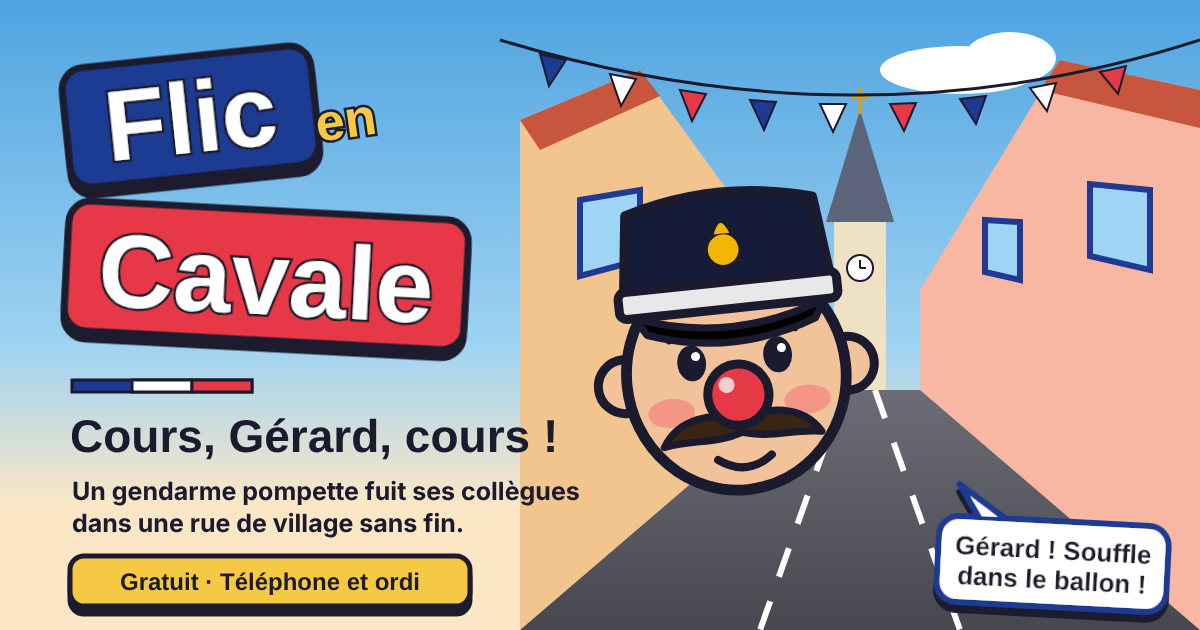
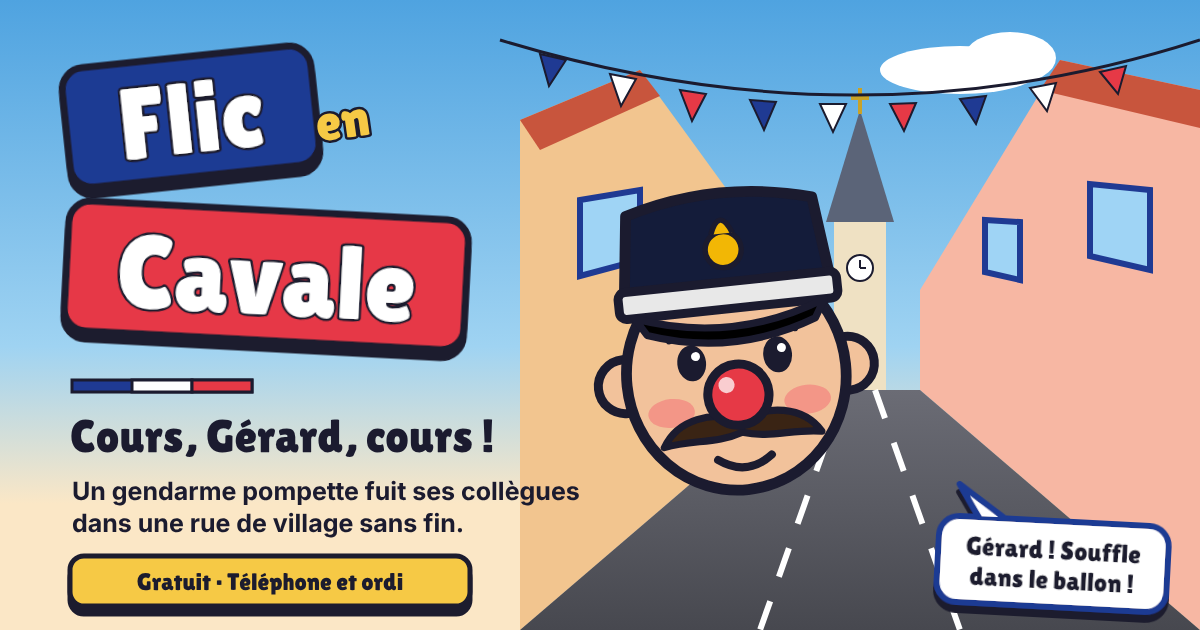
Police cartoon Lilita One (OFL) pour les titres, intégrée au jeu
- @fontsource/lilita-one : fichiers servis avec le jeu, aucun appel à Google Fonts
- Icône et image de partage régénérées avec la même police

Claude-Session: https://claude.ai/code/session_01DU2WzXPN3RKThDp7LtDHi1

diff --git a/src/style.css b/src/style.css
@@ -12,6 +12,10 @@
    Les mêmes couleurs sont utilisées en 3D : src/render/palette.js
    ========================================================= */
 
+/* Police des titres : Lilita One (licence libre OFL), fournie par le paquet npm
+   @fontsource/lilita-one et intégrée au jeu (aucun chargement depuis Internet). */
+@import '@fontsource/lilita-one/400.css';
+
 :root {
   --bleu: #1f3a93;
   --bleu-vif: #2b59c3;
@@ -30,8 +34,8 @@
   --trait: 3px solid var(--encre);
   --ombre-nette: 0 4px 0 var(--encre);
   --ombre-douce: 0 10px 30px rgba(27, 27, 47, 0.28);
-  /* Polices déjà présentes sur les appareils (aucun fichier à télécharger) */
-  --police-titre: 'Arial Rounded MT Bold', 'Nunito', 'Trebuchet MS', 'Segoe UI', system-ui, sans-serif;
+  /* Titres : Lilita One ; textes : polices déjà présentes sur l'appareil */
+  --police-titre: 'Lilita One', 'Arial Rounded MT Bold', 'Trebuchet MS', system-ui, sans-serif;
   --police: system-ui, -apple-system, 'Segoe UI', Roboto, 'Trebuchet MS', sans-serif;
   --police-pv: 'Courier New', ui-monospace, monospace;
 }
@@ -43,6 +47,7 @@
 
 html,
 body {
+  font-synthesis: none;
   margin: 0;
   height: 100%;
   overflow: hidden;

diff --git a/docs/design/DIRECTION-ARTISTIQUE.md b/docs/design/DIRECTION-ARTISTIQUE.md
@@ -17,7 +17,7 @@ Humour : tout ressemble à des objets « officiels » détournés (plaque de rue
 
 ## Style
 - **Autocollant / BD** : contour encre 2–3 px + ombre portée nette (pas de flou) sur tous les éléments d'interface.
-- **Typo** : polices déjà installées sur les appareils (aucun fichier téléchargé) — titres arrondis très gras, textes système, `Courier` pour le procès-verbal.
+- **Typo** : titres en **Lilita One** (licence libre OFL, paquet npm `@fontsource/lilita-one`, intégrée au jeu sans appel à Internet) ; textes en police système ; `Courier` pour le procès-verbal.
 - **3D** : formes simples à facettes, couleurs franches ; les obstacles doivent trancher sur le bitume gris (ex. radar jaune).
 
 ## Écrans
